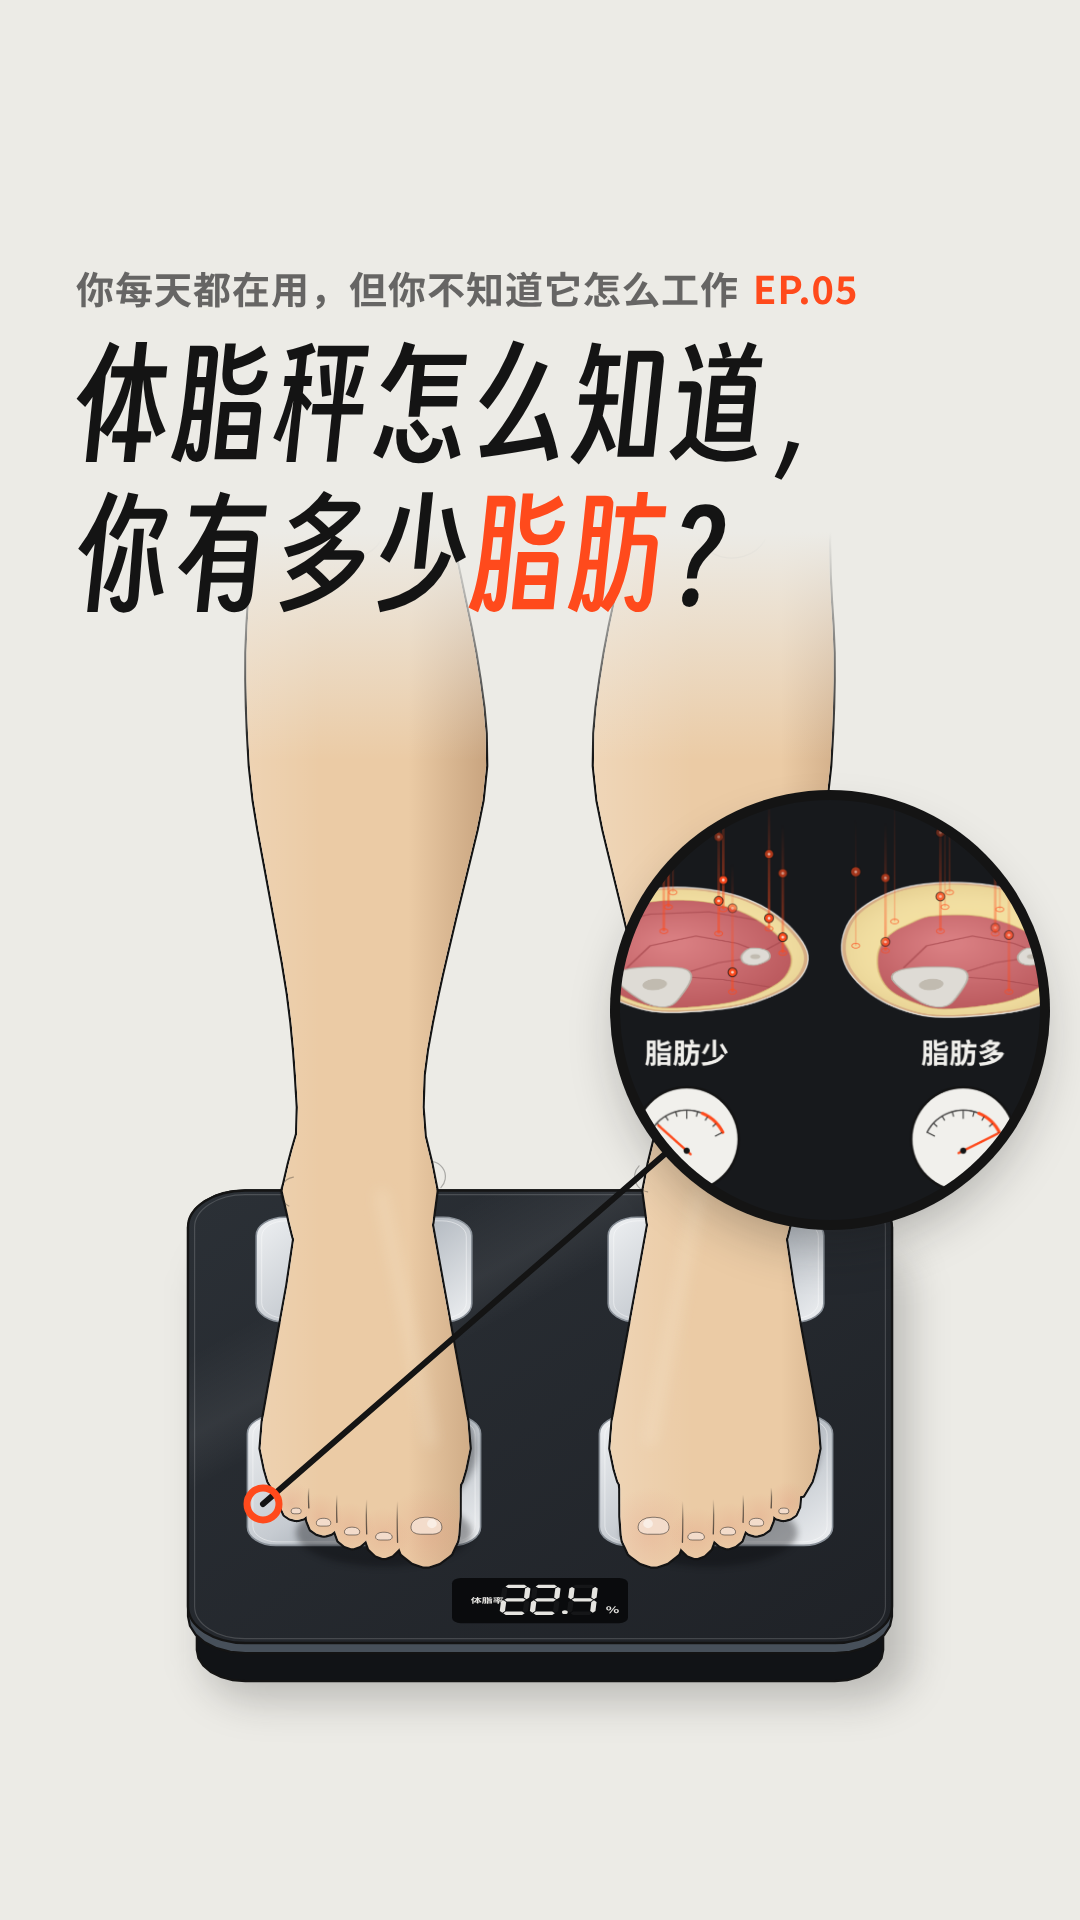
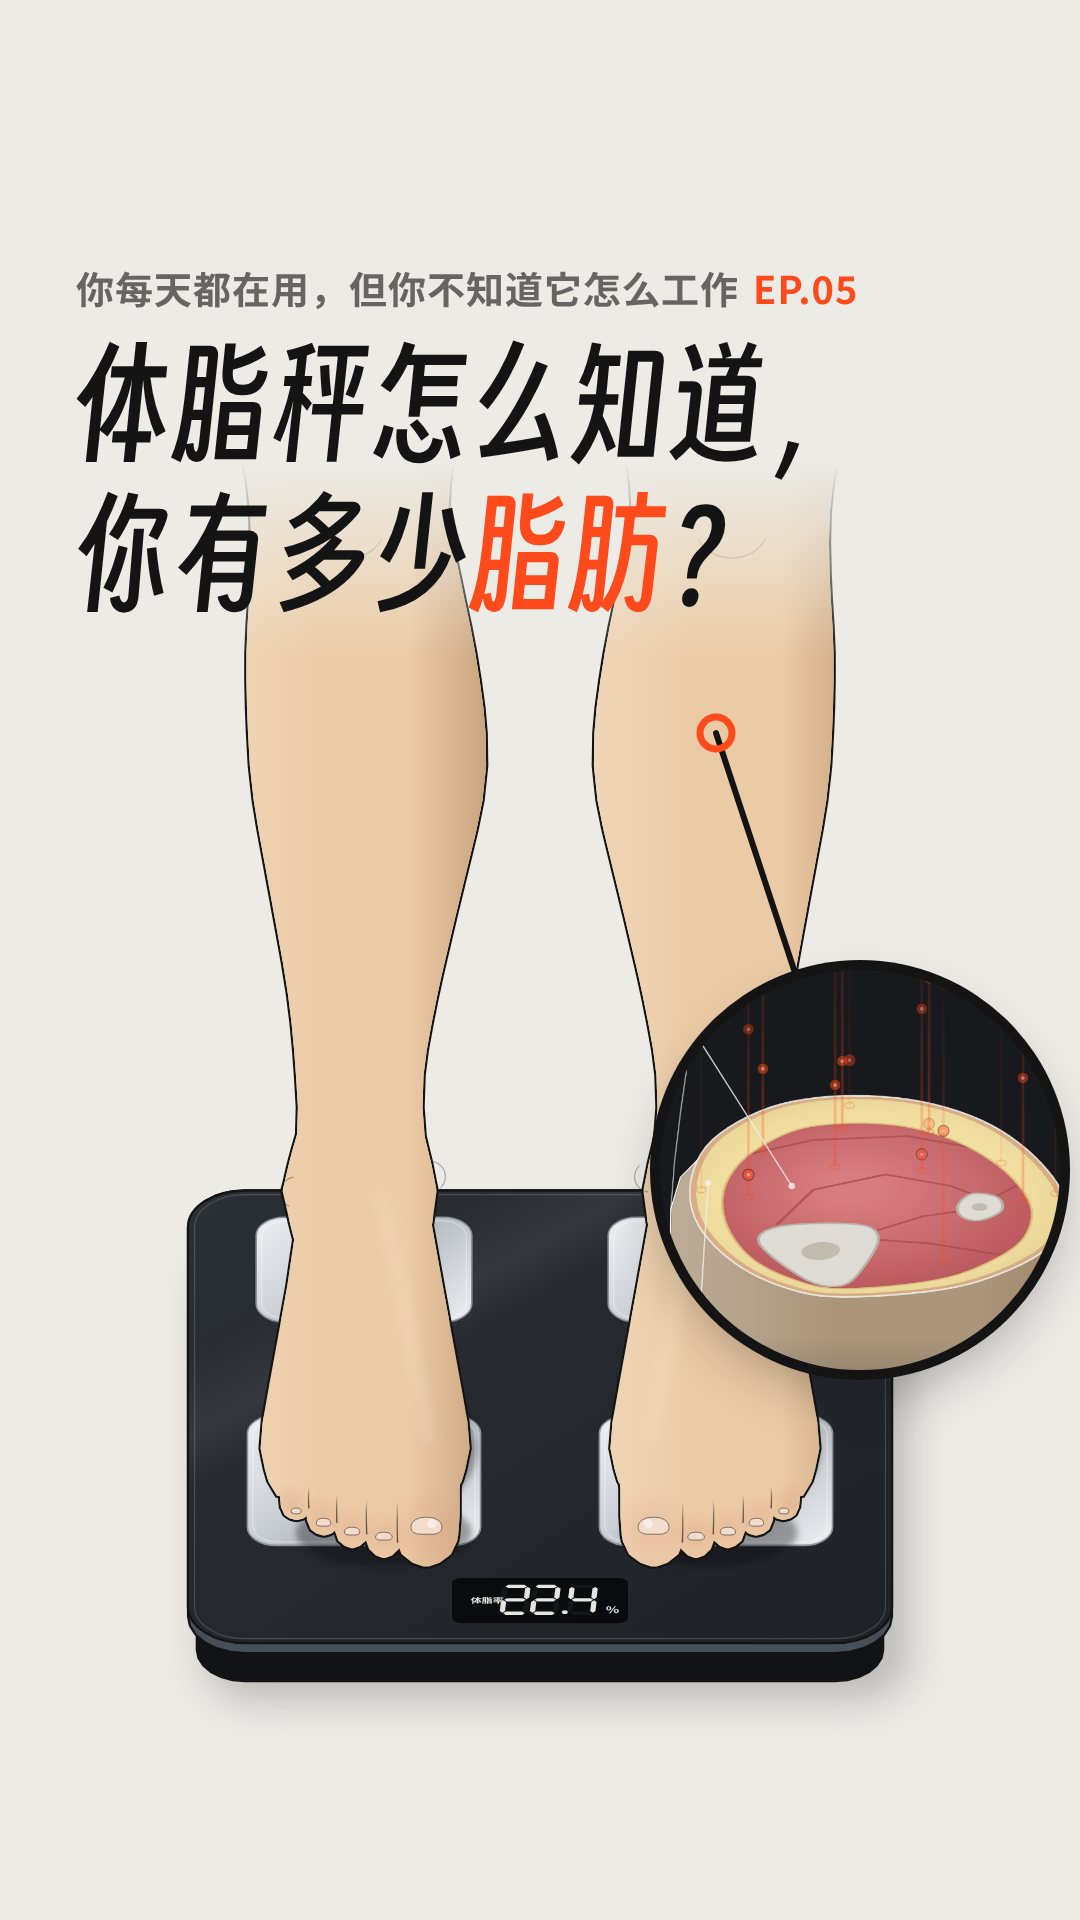
为什么 EP.05：按审核意见改封面锚点（指小腿、放大镜放小腿截面）、补搜索关键词和起搏器提醒、同步 FACTS / REVIEW
Claude-Session: https://claude.ai/code/session_017cWy2BMsDAaHpChs7qK5Za

diff --git a/episodes/weishenme/05-tizhicheng/publish.md b/episodes/weishenme/05-tizhicheng/publish.md
@@ -4,19 +4,19 @@
 
 ## 抖音
 
-- 视频：`ep05-tizhicheng.mp4`（1080×1920，56.25 秒）
+- 视频：`ep05-tizhicheng.mp4`（1080×1920，56.25 秒；随消息发给用户，mp4 不进仓库，源文件在 `out/`）
 - 封面：`cover-douyin.png`（1080×1920）
 
 **描述**
 
 ```text
-体脂秤怎么知道你有多少脂肪？脚下那几块亮片不是装饰，它们正在给你通电。电越难走，脂肪越多。
-#为什么系列 #体脂秤 #体脂率 #减脂 #健身 #科普 #涨知识
+体脂秤怎么知道你有多少脂肪？脚下那几块亮片不是装饰，它们正在给你通电。电越难走，脂肪越多。装心脏起搏器的人别用体脂功能。
+#为什么系列 #体脂秤 #体脂率 #体脂秤准吗 #生物电阻抗 #减脂 #科普
 ```
 
 ## 小红书
 
-- 视频：`ep05-tizhicheng-xhs.mp4`（1080×2340 全屏版）
+- 视频：`ep05-tizhicheng-xhs.mp4`（1080×2340 全屏版；随消息发给用户，不进仓库）
 - 封面：`cover-xiaohongshu.png`（1080×1440）
 
 **标题**
@@ -25,7 +25,11 @@
 体脂秤怎么知道你有多少脂肪？
 ```
 
-备选标题：踩体脂秤的时候，你其实在被通电
+备选标题
+
+```text
+踩体脂秤的时候，你其实在被通电
+```
 
 **正文**
 
@@ -39,11 +43,11 @@
 ③ 可电阻还不是体脂率：它还要你的身高、年龄、性别，套进公式里算。所以第一次用，App 才让你先填资料。
 ④ 也因为靠的是身体里的水，喝了水、出了汗，数字就会变。而且脚踩的体脂秤，电主要走两条腿和下腹，上半身靠公式推算，所以它给的是估算。
 
-小提示：每天同一时间、光脚测，看趋势，别盯着一次的数字。装了心脏起搏器等植入式电子设备的人，别用体脂功能（各品牌说明书里都有写）。
+小提示：每天同一时间、光脚测，看趋势，别盯着一次的数字。装了心脏起搏器等植入式电子设备的人，别用体脂功能（欧姆龙、百利达等主流品牌的说明书都写明了）。
 
 这是「你每天都在用，但你不知道它怎么工作」第 5 集。你还想知道哪个东西是怎么工作的？评论区告诉我。
 
-#体脂秤 #体脂率 #体脂秤准吗 #减脂 #健身 #冷知识 #科普 #为什么系列
+#体脂秤 #体脂率 #体脂秤准吗 #生物电阻抗 #减脂 #健身 #科普 #为什么系列
 ```
 
 ## 置顶评论（两个平台通用）
@@ -59,6 +63,6 @@
 ```
 
 ## 备注
-- 搜索关键词（标题、正文、标签都已覆盖）：体脂秤、体脂率、体脂秤准吗、减脂、生物电阻抗（正文用白话「电阻」，不出现术语）。
+- 搜索关键词：体脂秤、体脂率、体脂秤准吗、减脂、生物电阻抗。前两个在标题里；五个都在两个平台的话题标签里（「生物电阻抗」只放标签，正文用白话「电阻」）。
 - 「电主要走两条腿和下腹」只写在小红书正文里，片子里不讲（用户 2026-11-07 的决定）。
-- 事实来源见 `FACTS.md`：起搏器警告（Tanita、Omron、Philips、Withings 等说明书）、读数受体内水分影响（BMC Public Health 2021）、估算公式要身高体重年龄性别（ESPEN BIA 指南）。
+- 事实来源见 `FACTS.md`：起搏器警告（Tanita、Omron、Philips、Withings 等说明书）、读数受体内水分影响（Live Science；ESPEN BIA 指南 Kyle 2004）、估算公式要身高体重年龄性别（ESPEN BIA 指南）。

diff --git a/episodes/weishenme/05-tizhicheng/FACTS.md b/episodes/weishenme/05-tizhicheng/FACTS.md
@@ -24,4 +24,4 @@
 | 小腿横截面：外圈淡黄脂肪、里面红色肌肉（几条筋膜线）、浅灰的胫骨和腓骨 | 解剖简化：只画两根骨头和四五条肌间隔 / 筋膜线，比例按小腿中段大致画 |
 | 水 = 几颗水滴；喝水后变多、出汗后变少 | 示意，不是含水量的比例 |
 | 读数 58.6 kg、体脂率 22.4 %，以及跳动的 21.6 / 23.1 / 22.0 / 22.7 % | 示意数值，不对应任何真人或型号 |
-| 显示屏上的数字从镜头看是倒的，读数在放大镜里正着显示 | 真秤的显示屏朝向站在上面的人；放大镜里是人自己看到的方向 |
+| 显示屏上的数字从镜头看是正的 | 真秤的显示屏朝向站在上面的人，从前方看本该是倒的；倒着的「22.4」看着像「h22」，所以画成正的（艺术处理，见 notes.md） |
